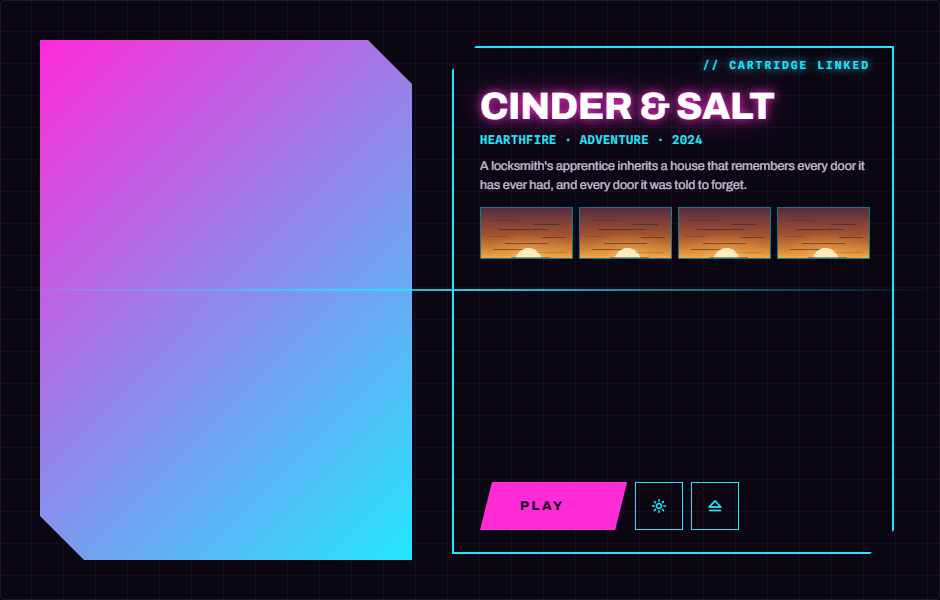
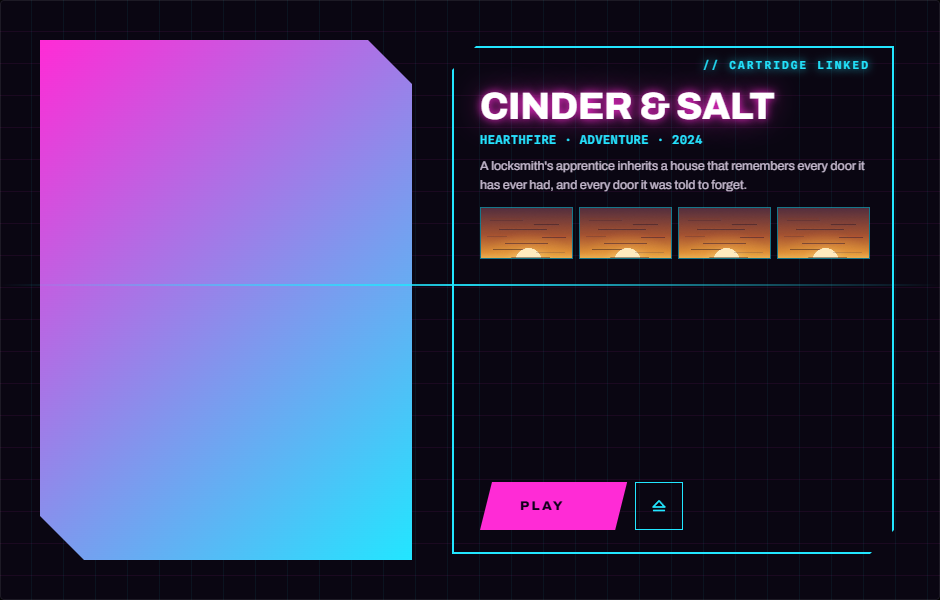
Drop the launcher's Settings button
It did the same job as the ⓘ, which already opens the details sheet and the
wizard from there. Two buttons one apart in the same row, both leading to the
same window, is a choice the reader has to make for no gain.

The `open_wizard_settings` command goes with it: nothing called it any more.
The launcher had the only caller, and the tray's "Open settings" is the
watcher spawning `pc-gamepak.exe --settings` as a process rather than invoking
a command on a window that may not exist yet — so the doc comment claiming the
tray landed here was describing a caller that was never there.

The wizard keeps its own `#btn-settings`; that one is unrelated.

Screenshots for all nine skins regenerated without it.

Changed region(s): [[0.0926, 0.45, 0.9255, 0.51], [0.7404, 0.84, 0.7713, 0.87], [0.6787, 0.84, 0.7096, 0.87]]

diff --git a/tauri-ui/app/index.html b/tauri-ui/app/index.html
@@ -139,28 +139,6 @@
               <span class="btn__sweep" aria-hidden="true"></span>
             </button>
           </span>
-          <!--
-            Settings had no way in from the launcher at all: the wizard owned it,
-            and a cartridge in the slot is exactly when somebody wants to change
-            what happens on insert. A peer of Eject rather than an icon in the
-            chrome, because the chrome only appears under the pointer and this
-            is not a pointer-only action.
-
-            It carries `btn--eject` as well as its own class on purpose: all
-            fifteen shipped skins style `.btn--eject` and none of them has ever
-            heard of this button, so borrowing that class is what makes it
-            arrive already looking like the skin it is in. `btn--settings` is
-            there for a skin that wants to tell the two apart.
-          -->
-          <button id="btn-settings" class="btn btn--eject btn--settings" type="button"
-                  aria-label="Settings" title="Settings">
-            <svg viewBox="0 0 16 16" fill="none" stroke="currentColor" stroke-width="1.6"
-                 stroke-linecap="round" stroke-linejoin="round" width="16" height="16"
-                 aria-hidden="true">
-              <circle cx="8" cy="8" r="2.4" />
-              <path d="M8 1.6v1.6M8 12.8v1.6M14.4 8h-1.6M3.2 8H1.6M12.5 3.5l-1.1 1.1M4.6 11.4l-1.1 1.1M12.5 12.5l-1.1-1.1M4.6 4.6L3.5 3.5" />
-            </svg>
-          </button>
           <button id="btn-eject" class="btn btn--eject" type="button" disabled
                   aria-label="Eject" title="Eject — E">
             <!-- Eject has its own face button, like the other three. -->

diff --git a/tauri-ui/app/src/main.js b/tauri-ui/app/src/main.js
@@ -52,7 +52,6 @@ const el = {
   byline: document.getElementById("game-byline"),
   description: document.getElementById("game-description"),
   screenshots: document.getElementById("screenshots"),
-  settings: document.getElementById("btn-settings"),
   stage: document.getElementById("stage"),
   notice: document.getElementById("notice"),
   play: document.getElementById("btn-play"),
@@ -1783,17 +1782,6 @@ el.openWizard.addEventListener("click", async () => {
     await invoke("open_wizard_window");
   } catch (error) {
     console.error(error);
-  }
-});
-
-// Straight to the settings half of the wizard, rather than to its front door.
-// Somebody pressing this has a cartridge in the slot and a setting in mind.
-el.settings.addEventListener("click", async () => {
-  try {
-    await invoke("open_wizard_settings");
-  } catch (error) {
-    console.error(error);
-    toast("Could not open Settings.", true);
   }
 });
 

diff --git a/tauri-ui/src-tauri/src/main.rs b/tauri-ui/src-tauri/src/main.rs
@@ -35,8 +35,6 @@
 //   push_shaders(drive_path)                 -> Vec<Synced>  (on eject)
 //   push_saves(drive_path)                   -> Vec<SyncOutcome>  (on eject)
 //   resolve_save_conflict(drive_path, slot_id, keep) -> SyncOutcome
-//   open_wizard_settings()                   -> ()  (opens/focuses the
-//                                               wizard, straight to Settings)
 //
 // Wizard commands:
 //   list_games()                             -> GameList { games, problems } (Playnite + Steam)
@@ -1908,16 +1906,6 @@ async fn create_cartridge(
 // Entry point
 // --------------------------------------------------------------------------
 
-/// The launcher popup's own way into the wizard, alongside the tray menu's.
-///
-/// The popup is a cartridge's home, not a settings surface, so this jumps
-/// straight past cartridge creation to Settings — the same place the tray
-/// menu's "Open settings" lands.
-#[tauri::command]
-fn open_wizard_settings(app: tauri::AppHandle) {
-    spawn_open_wizard(app, true);
-}
-
 /// The wizard itself, on the tab it opens with.
 ///
 /// The popup had a way to Settings but none to the thing Settings belongs to,
@@ -2172,7 +2160,6 @@ fn main() {
             register_with_steam,
             unregister_from_steam,
             create_cartridge,
-            open_wizard_settings,
             open_wizard_window,
         ])
         .setup(move |app| {

diff --git a/docs/SKINNING.md b/docs/SKINNING.md
@@ -132,7 +132,6 @@ layers below are for.
     │       ├── #play-ring > #btn-play    .btn.btn--play — the ring is the
     │       │                            flex child and is flex: 1, so set
     │       │                            #play-ring, not .btn--play, to size it
-    │       ├── #btn-settings             .btn.btn--eject.btn--settings
     │       └── #btn-eject                .btn.btn--eject, carries .pad-badge
     ├── #sheet                  the ⓘ panel
     └── #toast
@@ -143,10 +142,6 @@ which most do not: `description=`, `genre=`, `publisher=`, `year=` and
 `screenshot=` are all optional. Style them as though they are there, and they
 will be when a cartridge has something to say. Nothing about a skin written
 before they existed changes.
-
-`#btn-settings` carries `.btn--eject` as well as its own class, which is what
-makes it arrive already looking like the skin it is in. Give it `.btn--settings`
-rules to tell the two apart, or `display: none` to leave the row as it was.
 
 A row in `#game-list`, built at runtime:
 

diff --git a/CHANGELOG.md b/CHANGELOG.md
@@ -62,10 +62,6 @@ the window, and how many of those lines are *visible* is the skin's to set with
 `--description-lines`. Screenshots are capped at 2 MB each and a path that is
 not there is skipped rather than replaced with the cover.
 
-Settings is now a button in the launcher too. It had no way in from a cartridge
-in the slot, which is exactly the moment somebody wants to change what happens
-on insert.
-
 ### Skins can animate the moments, and make a sound
 
 A skin could already style *things* — a disabled button, a selected row. It could
